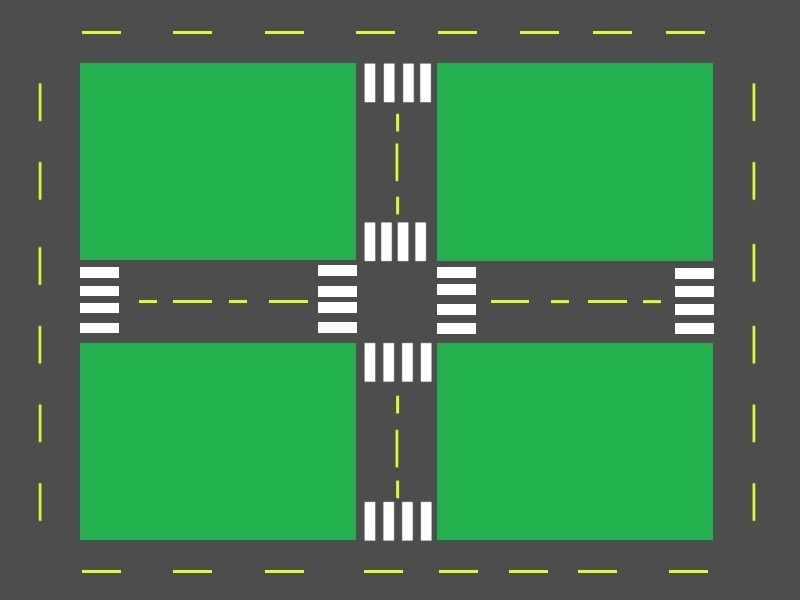
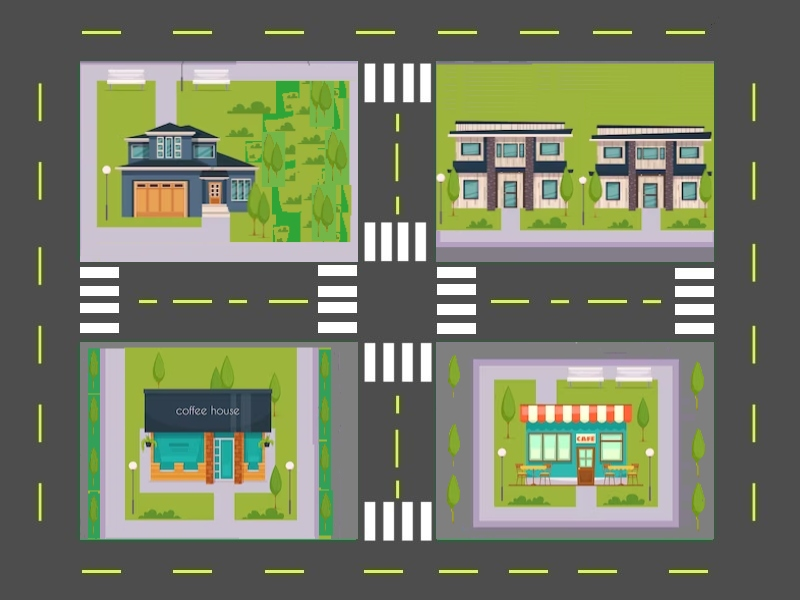
Mov de lakya terminado

diff --git a/src/juego/Juego.java b/src/juego/Juego.java
@@ -17,7 +17,7 @@ public class Juego extends InterfaceJuego {
 	Auto[] autos = new Auto[2];
 	boolean hayJuego = true;
 	int puntaje = 0;
-	Manzana manzana;
+	Manzana[] manzanas = new Manzana[4];
 
 
 
@@ -36,8 +36,10 @@ public class Juego extends InterfaceJuego {
 		plantas[1] = new Planta(600, 20);
 		plantas[2] = new Planta(30, 20);
 		plantas[3] = new Planta(750, 300);
-		manzana = new Manzana(217,160);
-	
+		manzanas[0] = new Manzana(80,60);
+		manzanas[1] = new Manzana(435,60);
+		manzanas[2] = new Manzana(80,342);
+		manzanas[3] = new Manzana(435, 342);
 
 		// Inicializar lo que haga falta para el juego
 		// ...
@@ -55,19 +57,45 @@ public class Juego extends InterfaceJuego {
 	public void tick() {
 		// dibujo fondo
 		fondo.dibujarse(entorno);
-		manzana.dibujarse(entorno);
 
 
 		// controles layka
-		if (entorno.estaPresionada(entorno.TECLA_DERECHA) && layka.x < 780 ){
-		    layka.moverDerecha();
-		} else if (entorno.estaPresionada(entorno.TECLA_IZQUIERDA) && layka.x > 20) {
-		    layka.moverIzquierda();
-		} else if (entorno.estaPresionada(entorno.TECLA_ARRIBA) && layka.y > 20) {
-		    layka.moverArriba();
-		} else if (entorno.estaPresionada(entorno.TECLA_ABAJO) && layka.y < 580) {
-		    layka.moverAbajo();
-		}
+		
+			entorno.dibujarCirculo(80,342, 10, Color.red);
+			
+			
+			if(colisionRectangulo(layka.x+10, layka.y, manzanas[0].x, manzanas[0].y, 278,201)) {
+				System.out.println("colisiona");
+			}
+			if (entorno.estaPresionada(entorno.TECLA_DERECHA) && layka.x < 780 && 
+					!colisionRectangulo(layka.x+21, layka.y, manzanas[0].x, manzanas[0].y, 278,201) &&
+					!colisionRectangulo(layka.x+21, layka.y, manzanas[1].x, manzanas[1].y, 278,201) &&
+					!colisionRectangulo(layka.x+21, layka.y, manzanas[2].x, manzanas[2].y, 278,201) &&
+					!colisionRectangulo(layka.x+21, layka.y, manzanas[3].x, manzanas[3].y, 278,201)){
+			    layka.moverDerecha();
+			}
+			
+			if (entorno.estaPresionada(entorno.TECLA_IZQUIERDA) && layka.x > 20
+					&& !colisionRectangulo(layka.x-21, layka.y, manzanas[0].x, manzanas[0].y, 278,201)
+					&& !colisionRectangulo(layka.x-21, layka.y, manzanas[1].x, manzanas[1].y, 278,201)
+					&& !colisionRectangulo(layka.x-21, layka.y, manzanas[2].x, manzanas[2].y, 278,201)
+					&& !colisionRectangulo(layka.x-21, layka.y, manzanas[3].x, manzanas[3].y, 278,201)) {
+			    layka.moverIzquierda();
+			}
+			if (entorno.estaPresionada(entorno.TECLA_ARRIBA) && layka.y > 20
+					&& !colisionRectangulo(layka.x, layka.y-21,manzanas[0].x, manzanas[0].y, 278,201)
+					&& !colisionRectangulo(layka.x, layka.y-21,manzanas[1].x, manzanas[1].y, 278,201)
+					&& !colisionRectangulo(layka.x, layka.y-21,manzanas[2].x, manzanas[2].y, 278,201)
+					&& !colisionRectangulo(layka.x, layka.y-21,manzanas[3].x, manzanas[3].y, 278,201)) {
+			    layka.moverArriba();
+			}
+			if (entorno.estaPresionada(entorno.TECLA_ABAJO) && layka.y < 580
+					&& !colisionRectangulo(layka.x, layka.y+21, manzanas[0].x, manzanas[0].y, 278,201)
+					&& !colisionRectangulo(layka.x, layka.y+21,manzanas[1].x, manzanas[1].y, 278,201)
+					&& !colisionRectangulo(layka.x, layka.y+21,manzanas[2].x, manzanas[2].y, 278,201)
+					&& !colisionRectangulo(layka.x, layka.y+21,manzanas[3].x, manzanas[3].y, 278,201)) {
+			    layka.moverAbajo();
+			}
 
 			
 			
@@ -143,15 +171,7 @@ public class Juego extends InterfaceJuego {
 						System.out.println("colision");
 
 					}
-				}
-				// logica para cuando colisiona con autos
-				if (colision(rayo1.x, rayo1.y, autos[0].x, autos[0].y, 80)) {
-					rayo1.existe = false;
-					rayo1.x = -200;
-					rayo1.y = -200;
-					System.out.println("colision");
-				}
-			
+				}		
 			
 		}else {
 			rayo1.existe = false;
@@ -161,6 +181,15 @@ public class Juego extends InterfaceJuego {
 
 	public boolean colision(double x1, double y1, double x2, double y2, double dist) {
 		return (x1 - x2) * (x1 - x2) + (y1 - y2) * (y1 - y2) < dist * dist;
+	}
+	public boolean colisionaConManzanasPorDerecha(Manzana manzana) {
+		for(int i=0;i<4;i++) {
+			colisionRectangulo(layka.x+21, layka.y, manzanas[i].x, manzanas[i].y, 278,201);
+		}
+		return true;
+	}
+	public boolean colisionRectangulo(double puntoX, double puntoY, double rectanguloX, double rectanguloY, double ancho, double alto) {
+	    return puntoX >= rectanguloX && puntoX <= rectanguloX + ancho && puntoY >= rectanguloY && puntoY <= rectanguloY + alto;
 	}
 
 	@SuppressWarnings("unused")

diff --git a/src/juego/Manzana.java b/src/juego/Manzana.java
@@ -9,35 +9,19 @@ import entorno.Herramientas;
 public class Manzana {
 	double x;
 	double y;
-	Image imgManzana;
-	Image imgCasa;
-	Image imgCafe2;
-	Image imgCasa2;
 	double anguloManzana;
 	
 	public Manzana(double x, double y) {
 		this.x = x;
 		this.y = y;
-		imgManzana = Herramientas.cargarImagen("mzncafe.png");
-        imgCasa = Herramientas.cargarImagen("casa.png");
-        imgCafe2 = Herramientas.cargarImagen("cafe2.png");
-        imgCasa2 = Herramientas.cargarImagen("casa2.png");
 		anguloManzana=0;
 		
 	}
 	
 	public void dibujarse(Entorno entorno)
 	{
-	    entorno.dibujarImagen(imgManzana, this.x, this.y, this.anguloManzana, 1);
-	    entorno.dibujarImagen(imgCasa, this.x + 356, this.y, this.anguloManzana, 1);
-	    entorno.dibujarImagen(imgCafe2, this.x + 356, this.y + 280, this.anguloManzana, 1);
-	    entorno.dibujarImagen(imgCasa2, this.x , this.y + 280, this.anguloManzana, 1);
+		entorno.dibujarCirculo(this.x, this.y, 10, Color.red);
 	}
 
-	public void dibujarRectangulo(double x, double y, double ancho, double alto, double angulo, Color color)
-	{
-	
-
-	}
 	
 }
